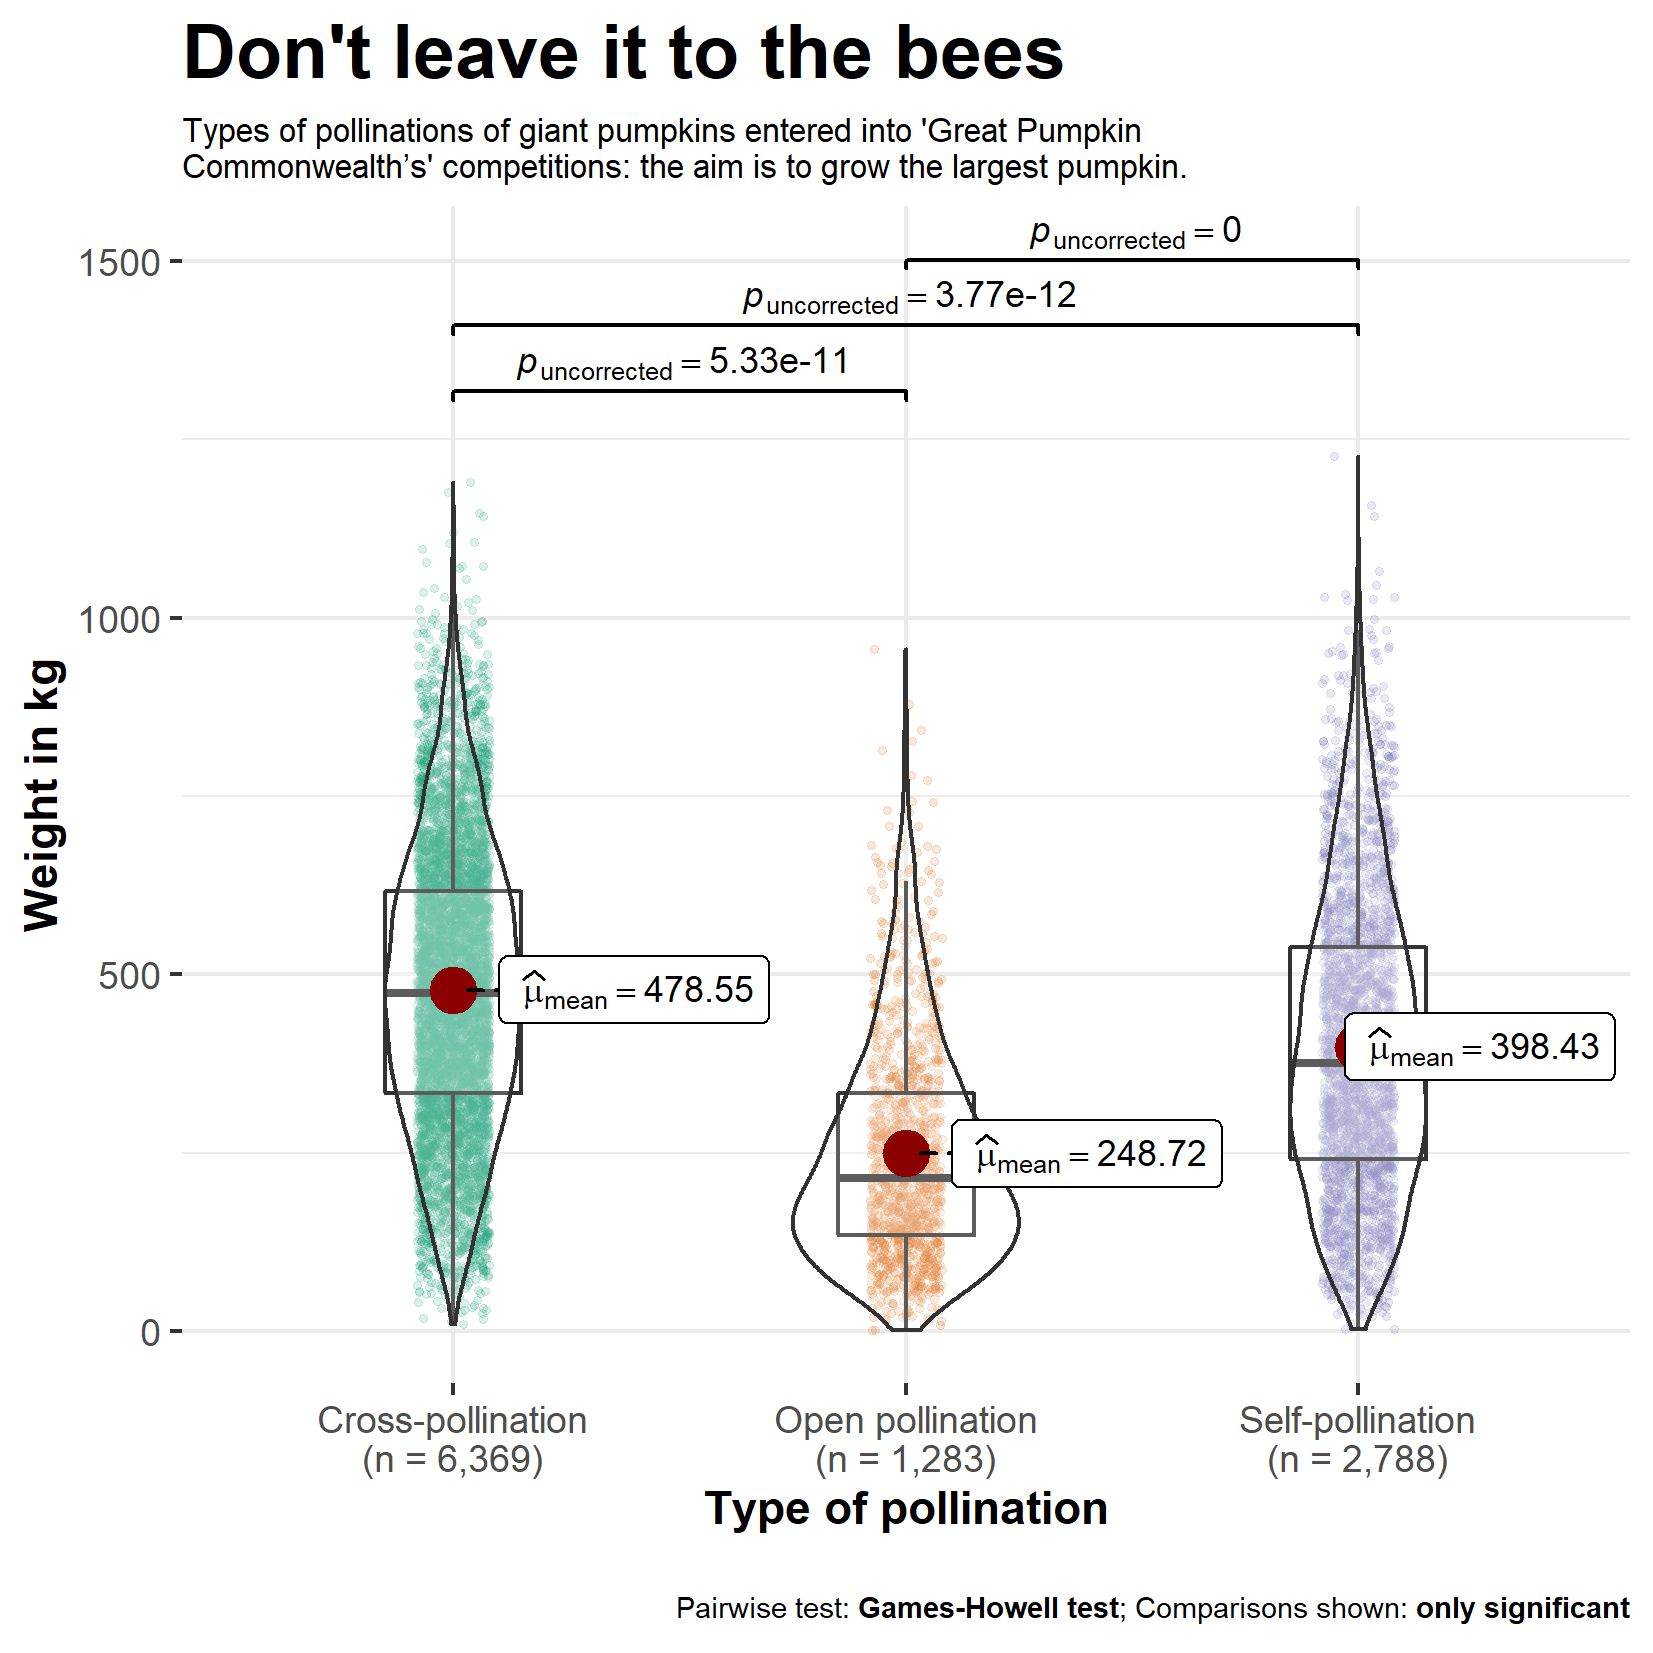
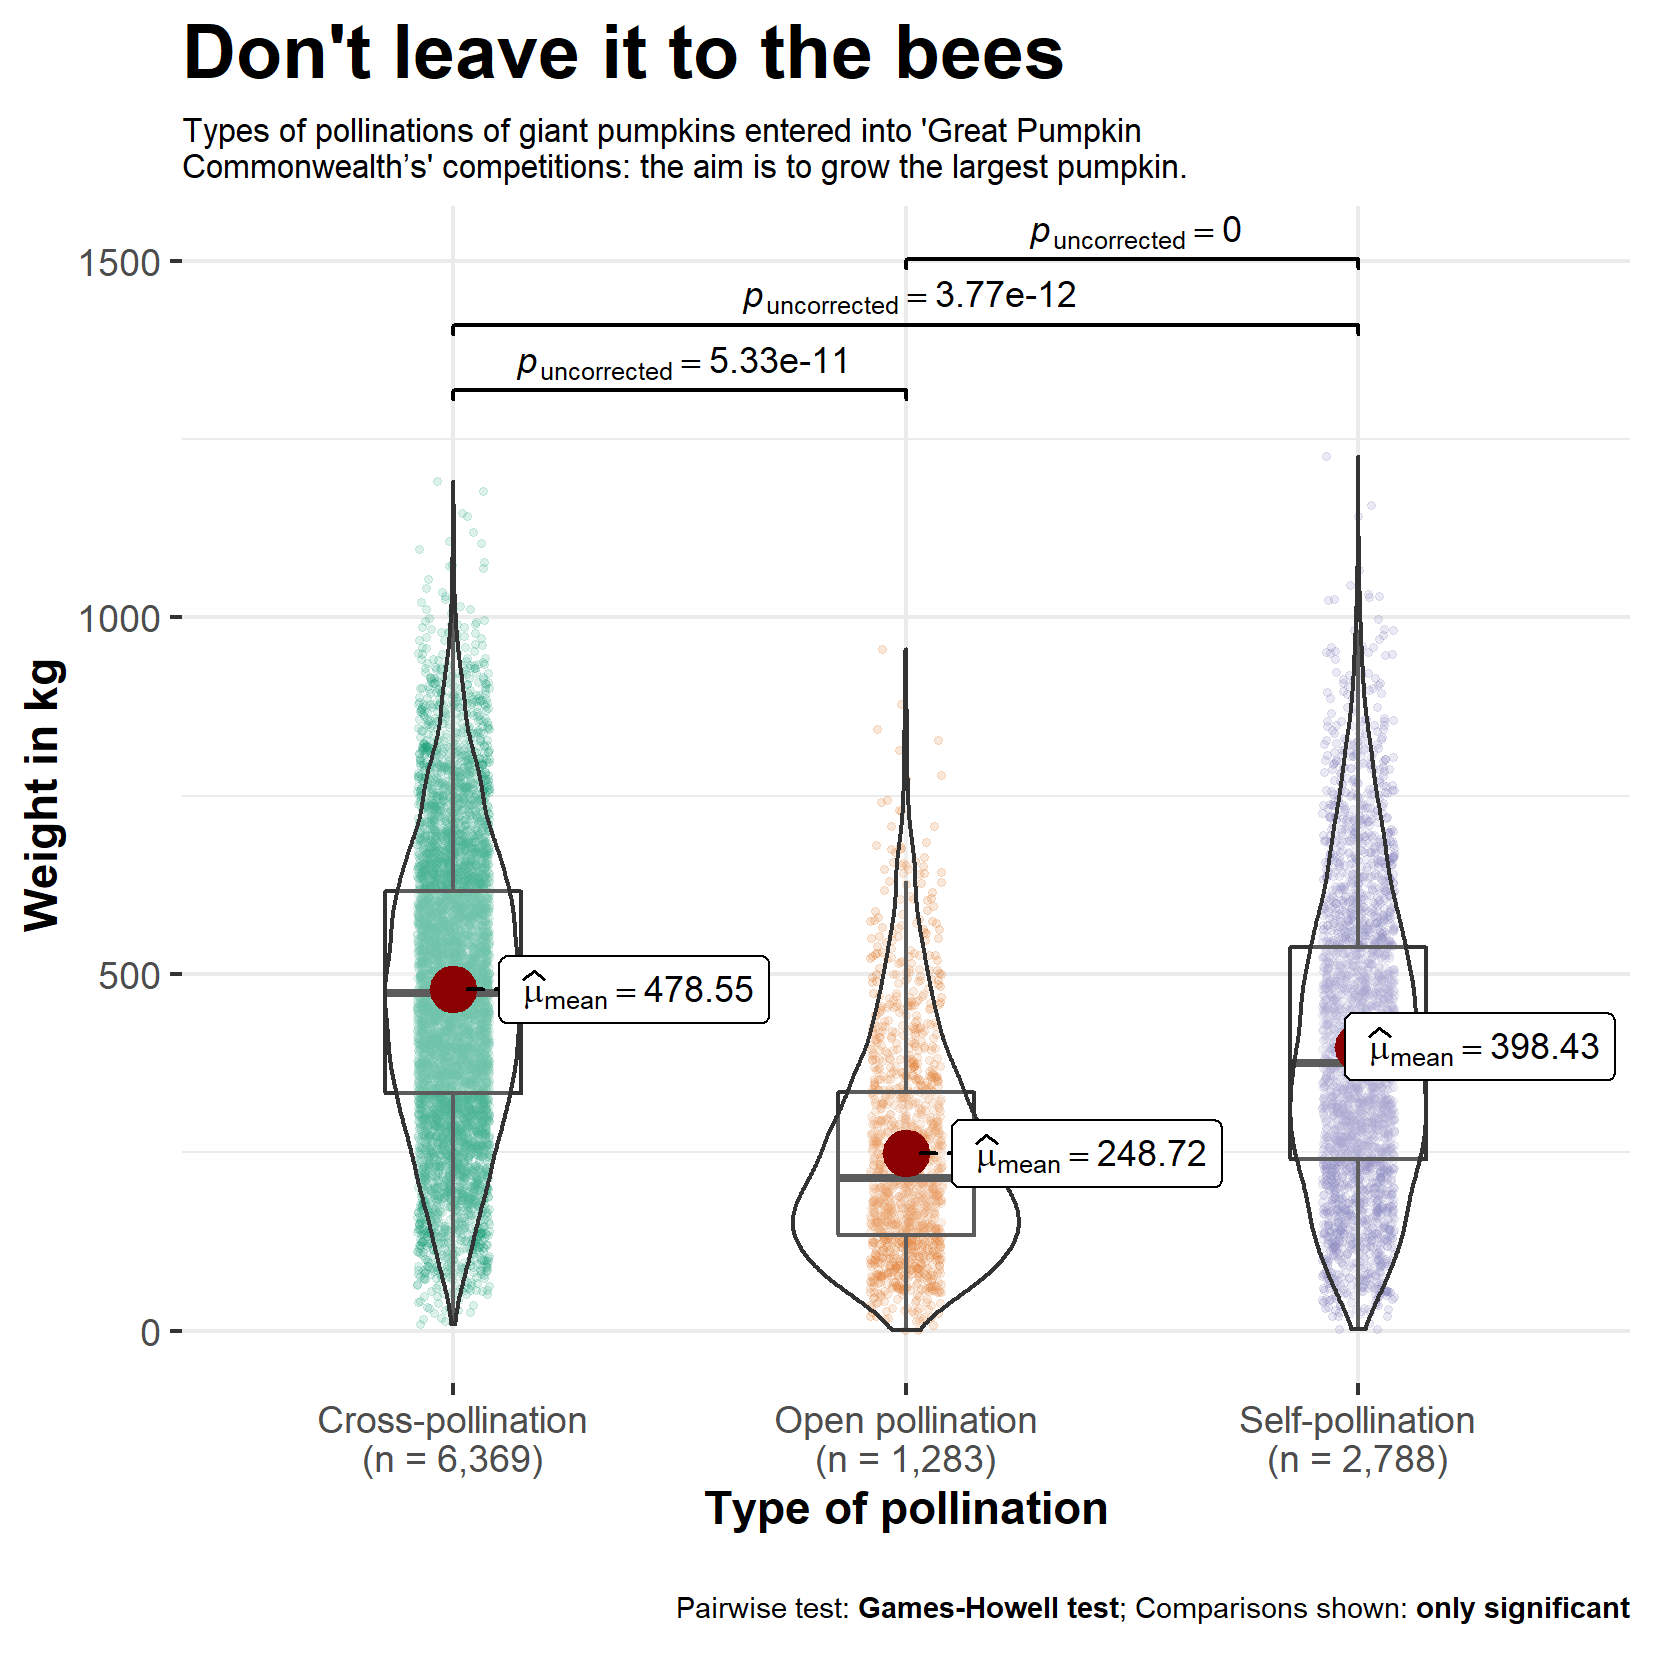
Knit

diff --git a/2021/2021-10-19 Big Pumpkins/2021-10-19-Big-Pumpkins.md b/2021/2021-10-19 Big Pumpkins/2021-10-19-Big-Pumpkins.md
@@ -1,0 +1,323 @@
+2021-10-19 Big Pumpkins
+================
+
+    ## Warning in .recacheSubclasses(def@className, def, env): undefined subclass
+    ## "numericVector" of class "Mnumeric"; definition not updated
+
+## Read data
+
+``` r
+pumpkins <- readr::read_csv('https://raw.githubusercontent.com/rfordatascience/tidytuesday/master/data/2021/2021-10-19/pumpkins.csv')
+```
+
+    ## Rows: 28065 Columns: 14
+
+    ## -- Column specification --------------------------------------------------------
+    ## Delimiter: ","
+    ## chr (14): id, place, weight_lbs, grower_name, city, state_prov, country, gpc...
+
+    ## 
+    ## i Use `spec()` to retrieve the full column specification for this data.
+    ## i Specify the column types or set `show_col_types = FALSE` to quiet this message.
+
+## EDA
+
+Add year and crop
+
+``` r
+pumpkins_clean <- pumpkins %>% 
+  mutate(comp_year = substr(id,  1, 4),
+         crop = case_when(str_detect(id, "F") ~ "Field Pumpkin",
+                          str_detect(id, "P") ~ "Giant Pumpkin",
+                          str_detect(id, "S") ~ "Giant Squash",
+                          str_detect(id, "W") ~ "Giant Watermelon",
+                          str_detect(id, "L") ~ "Long Gourd",
+                          str_detect(id, "T") ~ "Tomato"),
+         weight_lbs_num = as.numeric(str_remove(weight_lbs, ",")),
+         weight_kg = weight_lbs_num * 0.453592) %>% 
+  filter(!is.na(weight_lbs_num)) # Removing multiple entries
+```
+
+    ## Warning in mask$eval_all_mutate(quo): NAs introduced by coercion
+
+``` r
+skimr::skim(pumpkins_clean)
+```
+
+|                                                  |                |
+|:-------------------------------------------------|:---------------|
+| Name                                             | pumpkins_clean |
+| Number of rows                                   | 28011          |
+| Number of columns                                | 18             |
+| \_\_\_\_\_\_\_\_\_\_\_\_\_\_\_\_\_\_\_\_\_\_\_   |                |
+| Column type frequency:                           |                |
+| character                                        | 16             |
+| numeric                                          | 2              |
+| \_\_\_\_\_\_\_\_\_\_\_\_\_\_\_\_\_\_\_\_\_\_\_\_ |                |
+| Group variables                                  | None           |
+
+Data summary
+
+**Variable type: character**
+
+| skim_variable     | n_missing | complete_rate | min | max | empty | n_unique | whitespace |
+|:------------------|----------:|--------------:|----:|----:|------:|---------:|-----------:|
+| id                |         0 |          1.00 |   6 |   6 |     0 |       54 |          0 |
+| place             |         0 |          1.00 |   1 |   4 |     0 |     1797 |          0 |
+| weight_lbs        |         0 |          1.00 |   4 |   8 |     0 |     7491 |          0 |
+| grower_name       |         0 |          1.00 |   4 |  64 |     0 |     7928 |          0 |
+| city              |      2779 |          0.90 |   1 |  28 |     0 |     3164 |          0 |
+| state_prov        |         0 |          1.00 |   4 |  22 |     0 |      134 |          0 |
+| country           |         0 |          1.00 |   5 |  15 |     0 |       21 |          0 |
+| gpc_site          |         0 |          1.00 |   8 |  69 |     0 |      166 |          0 |
+| seed_mother       |      8537 |          0.70 |   1 |  50 |     0 |     9942 |          0 |
+| pollinator_father |     10302 |          0.63 |   1 |  50 |     0 |     4484 |          0 |
+| ott               |      3157 |          0.89 |   3 |   6 |     0 |      448 |          0 |
+| est_weight        |      3157 |          0.89 |   4 |   9 |     0 |     1614 |          0 |
+| pct_chart         |      3157 |          0.89 |   3 |   6 |     0 |      181 |          0 |
+| variety           |     27296 |          0.03 |   1 |  22 |     0 |       77 |          0 |
+| comp_year         |         0 |          1.00 |   4 |   4 |     0 |        9 |          0 |
+| crop              |         0 |          1.00 |   6 |  16 |     0 |        6 |          0 |
+
+**Variable type: numeric**
+
+| skim_variable  | n_missing | complete_rate |   mean |     sd |   p0 |   p25 |    p50 |    p75 |    p100 | hist  |
+|:---------------|----------:|--------------:|-------:|-------:|-----:|------:|-------:|-------:|--------:|:------|
+| weight_lbs_num |         0 |             1 | 499.81 | 503.86 | 0.10 | 86.50 | 308.60 | 831.00 | 2702.90 | ▇▃▂▁▁ |
+| weight_kg      |         0 |             1 | 226.71 | 228.55 | 0.05 | 39.24 | 139.98 | 376.93 | 1226.01 | ▇▃▂▁▁ |
+
+### How many of each crop?
+
+``` r
+pumpkins_clean %>% 
+  filter(!is.na(pollinator_father)) %>% 
+  count(crop)
+```
+
+    ## # A tibble: 6 x 2
+    ##   crop                 n
+    ##   <chr>            <int>
+    ## 1 Field Pumpkin     1531
+    ## 2 Giant Pumpkin    10796
+    ## 3 Giant Squash      1123
+    ## 4 Giant Watermelon  1564
+    ## 5 Long Gourd        1011
+    ## 6 Tomato            1684
+
+## Ideas
+
+-   Heterosis?
+-   Which ones have known pollinators?
+
+### Group forms of pollination
+
+``` r
+unknown_pollination <- pumpkins_clean %>% 
+  filter(is.na(seed_mother) | 
+           is.na(pollinator_father) |
+           str_detect(seed_mother, "\\?") |
+           str_detect(pollinator_father, "\\?") |
+           pollinator_father %in% c("unknown", "Unknown", "mystery", "Mystery") |
+           seed_mother %in% c("unknown", "Unknown", "mystery", "Mystery"))
+
+selfed_plants <- pumpkins_clean %>% 
+  anti_join(unknown_pollination) %>% 
+  filter(pollinator_father %in% c("Sibbed", "sibbed", "self", "Self", "selfed", "Selfed", "sib", "sibb", "Sib") | 
+           pollinator_father == seed_mother) %>% 
+  mutate(pollination = "Self-pollination")
+```
+
+    ## Joining, by = c("id", "place", "weight_lbs", "grower_name", "city", "state_prov", "country", "gpc_site", "seed_mother", "pollinator_father", "ott", "est_weight", "pct_chart", "variety", "comp_year", "crop", "weight_lbs_num", "weight_kg")
+
+``` r
+open_pollinated <-pumpkins_clean %>%
+  anti_join(unknown_pollination) %>% 
+  anti_join(selfed_plants) %>% 
+  filter(pollinator_father %in% c("open", "Open")) %>% 
+  mutate(pollination = "Open pollination")
+```
+
+    ## Joining, by = c("id", "place", "weight_lbs", "grower_name", "city", "state_prov", "country", "gpc_site", "seed_mother", "pollinator_father", "ott", "est_weight", "pct_chart", "variety", "comp_year", "crop", "weight_lbs_num", "weight_kg")
+    ## Joining, by = c("id", "place", "weight_lbs", "grower_name", "city", "state_prov", "country", "gpc_site", "seed_mother", "pollinator_father", "ott", "est_weight", "pct_chart", "variety", "comp_year", "crop", "weight_lbs_num", "weight_kg")
+
+``` r
+cross_pollinated <- pumpkins_clean %>% 
+  anti_join(selfed_plants) %>% 
+  anti_join(open_pollinated) %>% 
+  anti_join(unknown_pollination)%>% 
+  mutate(pollination = "Cross-pollination")
+```
+
+    ## Joining, by = c("id", "place", "weight_lbs", "grower_name", "city", "state_prov", "country", "gpc_site", "seed_mother", "pollinator_father", "ott", "est_weight", "pct_chart", "variety", "comp_year", "crop", "weight_lbs_num", "weight_kg")
+    ## Joining, by = c("id", "place", "weight_lbs", "grower_name", "city", "state_prov", "country", "gpc_site", "seed_mother", "pollinator_father", "ott", "est_weight", "pct_chart", "variety", "comp_year", "crop", "weight_lbs_num", "weight_kg")
+    ## Joining, by = c("id", "place", "weight_lbs", "grower_name", "city", "state_prov", "country", "gpc_site", "seed_mother", "pollinator_father", "ott", "est_weight", "pct_chart", "variety", "comp_year", "crop", "weight_lbs_num", "weight_kg")
+
+### Combining the entries with evident form of pollination
+
+``` r
+pumpkins_known_pollination <- rbind(selfed_plants, open_pollinated, cross_pollinated)
+```
+
+### Weights per pollination
+
+``` r
+pumpkins_known_pollination %>% 
+  ggplot(aes(x = pollination, y = weight_kg, color = pollination, shape = pollination)) +
+  geom_jitter(alpha = 0.3) +
+  facet_wrap(~crop, scales= "free_y")
+```
+
+![](2021-10-19-Big-Pumpkins_files/figure-gfm/unnamed-chunk-7-1.png)<!-- -->
+
+### Trends in pollination over time?
+
+``` r
+pumpkins_known_pollination %>% 
+  group_by(comp_year, crop, pollination) %>% 
+  summarise(entries = n()) %>% 
+  ggplot(aes(x = comp_year, y = entries, color = pollination, linetype = pollination, group = pollination)) +
+  geom_line() +
+  facet_wrap(~crop, scales= "free_y")
+```
+
+    ## `summarise()` has grouped output by 'comp_year', 'crop'. You can override using the `.groups` argument.
+
+![](2021-10-19-Big-Pumpkins_files/figure-gfm/unnamed-chunk-8-1.png)<!-- -->
+
+``` r
+set.seed(123)
+p_all <- grouped_ggbetweenstats(
+  data = pumpkins_known_pollination,
+  x = pollination,
+  y = weight_kg,
+  grouping.var = crop,
+  type = "parametric",
+  xlab= "Pollination", 
+  ylab = "Weight in kg",
+  p.adjust.method = "none",
+  pairwise.display = "significant",
+  point.args = list(position = ggplot2::position_jitterdodge(dodge.width = 0.6), alpha
+    = 0.15, size = 1.5, stroke = 0),
+  annotation.args = list(
+    title = "Don't leave it to the bees",
+    subtitle = "Comparison of pollinations of vegetables and fruits entered into 'Great Pumpkin Commonwealth’s' competitions. The aim is to grow the largest crop.",
+    caption = "Data: BigPumpkins.com | Graphic: @TannerFlorian"
+  )
+)
+p_all
+```
+
+![](2021-10-19-Big-Pumpkins_files/figure-gfm/unnamed-chunk-9-1.png)<!-- -->
+
+``` r
+ggsave(plot = p_all, filename = "big_pumpkins_all.png", device = "png", units = "cm", width = 28, height= 28, limitsize = F)
+```
+
+``` r
+set.seed(123)
+p_giant_pumpkin <- ggbetweenstats(
+  data = pumpkins_known_pollination %>% filter(crop == "Giant Pumpkin"),
+  x = pollination,
+  y = weight_kg,
+  type = "parametric",
+  xlab= "Type of pollination", 
+  ylab = "Weight in kg",
+  p.adjust.method = "none",
+  pairwise.display = "significant",
+  point.args = list(position = ggplot2::position_jitterdodge(dodge.width = 0.7), alpha
+    = 0.15, size = 1, stroke = 0),
+  results.subtitle = FALSE,
+  title = "Don't leave it to the bees",
+  subtitle = str_wrap("Types of pollinations of giant pumpkins entered into 'Great Pumpkin Commonwealth’s' competitions: the aim is to grow the largest pumpkin.\n", 80),
+  ggstatsplot.layer = FALSE,
+  ggplot.component = list(theme(plot.title = element_text(size = 18),
+                                plot.subtitle = element_text(size = 8),
+                                plot.caption = element_text(size = 7))))
+p_giant_pumpkin
+```
+
+![](2021-10-19-Big-Pumpkins_files/figure-gfm/unnamed-chunk-11-1.png)<!-- -->
+
+``` r
+ggsave(plot = p_giant_pumpkin, filename = "big_giant_pumpkins.png", device = "png", units = "cm", width = 14, height= 14, limitsize = F)
+```
+
+``` r
+sessionInfo()
+```
+
+    ## R version 4.1.1 (2021-08-10)
+    ## Platform: x86_64-w64-mingw32/x64 (64-bit)
+    ## Running under: Windows 10 x64 (build 19042)
+    ## 
+    ## Matrix products: default
+    ## 
+    ## locale:
+    ## [1] LC_COLLATE=English_United States.1252 
+    ## [2] LC_CTYPE=English_United States.1252   
+    ## [3] LC_MONETARY=English_United States.1252
+    ## [4] LC_NUMERIC=C                          
+    ## [5] LC_TIME=English_United States.1252    
+    ## 
+    ## attached base packages:
+    ## [1] stats     graphics  grDevices utils     datasets  methods   base     
+    ## 
+    ## other attached packages:
+    ##  [1] showtext_0.9-4    showtextdb_3.0    sysfonts_0.8.5    ggstatsplot_0.8.0
+    ##  [5] forcats_0.5.1     stringr_1.4.0     dplyr_1.0.7       purrr_0.3.4      
+    ##  [9] readr_2.0.2       tidyr_1.1.4       tibble_3.1.5      ggplot2_3.3.5    
+    ## [13] tidyverse_1.3.1  
+    ## 
+    ## loaded via a namespace (and not attached):
+    ##   [1] colorspace_2.0-2          ggsignif_0.6.3           
+    ##   [3] ellipsis_0.3.2            base64enc_0.1-3          
+    ##   [5] parameters_0.14.0         fs_1.5.0                 
+    ##   [7] mc2d_0.1-21               rstudioapi_0.13          
+    ##   [9] farver_2.1.0              MatrixModels_0.5-0       
+    ##  [11] ggrepel_0.9.1             bit64_4.0.5              
+    ##  [13] fansi_0.5.0               mvtnorm_1.1-2            
+    ##  [15] lubridate_1.7.10          xml2_1.3.2               
+    ##  [17] cachem_1.0.6              knitr_1.36               
+    ##  [19] SuppDists_1.1-9.5         zeallot_0.1.0            
+    ##  [21] jsonlite_1.7.2            broom_0.7.9              
+    ##  [23] Rmpfr_0.8-4               dbplyr_2.1.1             
+    ##  [25] effectsize_0.5            compiler_4.1.1           
+    ##  [27] httr_1.4.2                PMCMRplus_1.9.0          
+    ##  [29] backports_1.2.1           assertthat_0.2.1         
+    ##  [31] Matrix_1.3-4              fastmap_1.1.0            
+    ##  [33] cli_3.0.1                 htmltools_0.5.2          
+    ##  [35] tools_4.1.1               gmp_0.6-2                
+    ##  [37] coda_0.19-4               gtable_0.3.0             
+    ##  [39] glue_1.4.2                Rcpp_1.0.7               
+    ##  [41] cellranger_1.1.0          vctrs_0.3.8              
+    ##  [43] insight_0.14.4            xfun_0.26                
+    ##  [45] rvest_1.0.1               lifecycle_1.0.1          
+    ##  [47] ipmisc_6.0.2              gtools_3.9.2             
+    ##  [49] MASS_7.3-54               scales_1.1.1             
+    ##  [51] vroom_1.5.5               BayesFactor_0.9.12-4.2   
+    ##  [53] hms_1.1.1                 parallel_4.1.1           
+    ##  [55] rematch2_2.1.2            prismatic_1.0.0          
+    ##  [57] yaml_2.2.1                curl_4.3.2               
+    ##  [59] memoise_2.0.0             pbapply_1.5-0            
+    ##  [61] reshape_0.8.8             stringi_1.7.5            
+    ##  [63] highr_0.9                 paletteer_1.4.0          
+    ##  [65] bayestestR_0.11.0         boot_1.3-28              
+    ##  [67] repr_1.1.3                rlang_0.4.11             
+    ##  [69] pkgconfig_2.0.3           evaluate_0.14            
+    ##  [71] lattice_0.20-44           labeling_0.4.2           
+    ##  [73] patchwork_1.1.1           bit_4.0.4                
+    ##  [75] tidyselect_1.1.1          plyr_1.8.6               
+    ##  [77] magrittr_2.0.1            R6_2.5.1                 
+    ##  [79] pairwiseComparisons_3.1.6 generics_0.1.0           
+    ##  [81] multcompView_0.1-8        BWStest_0.2.2            
+    ##  [83] DBI_1.1.1                 pillar_1.6.3             
+    ##  [85] haven_2.4.3               withr_2.4.2              
+    ##  [87] datawizard_0.2.1          performance_0.8.0        
+    ##  [89] modelr_0.1.8              crayon_1.4.1             
+    ##  [91] WRS2_1.1-3                utf8_1.2.2               
+    ##  [93] correlation_0.7.1         tzdb_0.1.2               
+    ##  [95] rmarkdown_2.11            kSamples_1.2-9           
+    ##  [97] grid_4.1.1                readxl_1.3.1             
+    ##  [99] reprex_2.0.1              digest_0.6.28            
+    ## [101] statsExpressions_1.1.0    munsell_0.5.0            
+    ## [103] skimr_2.1.3
